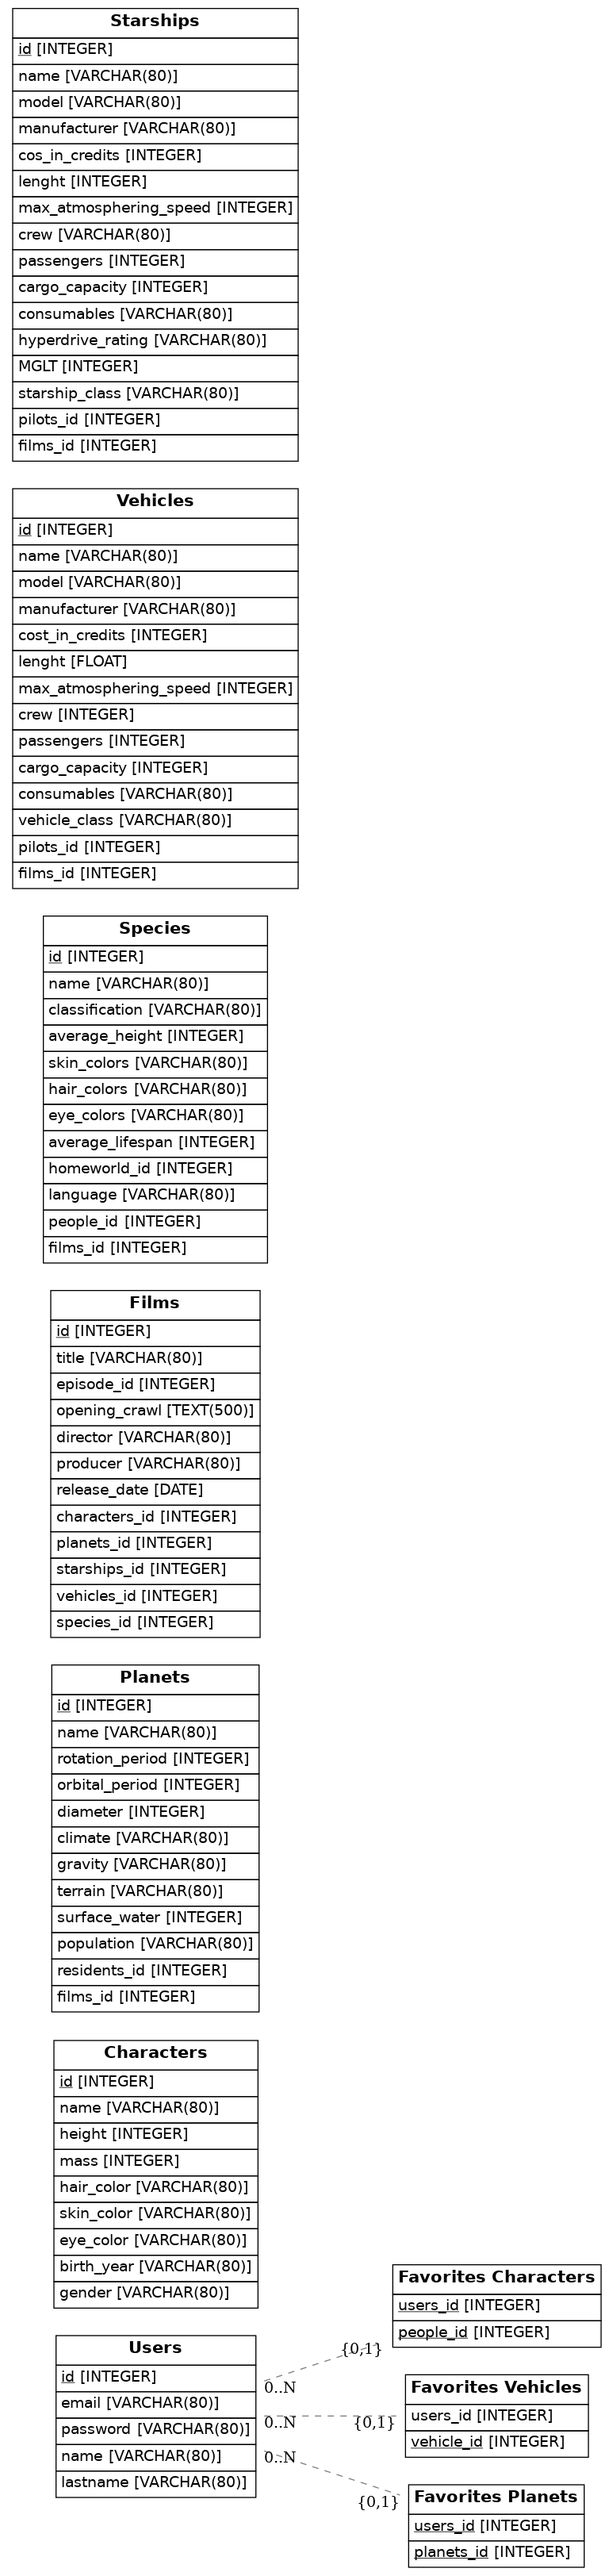
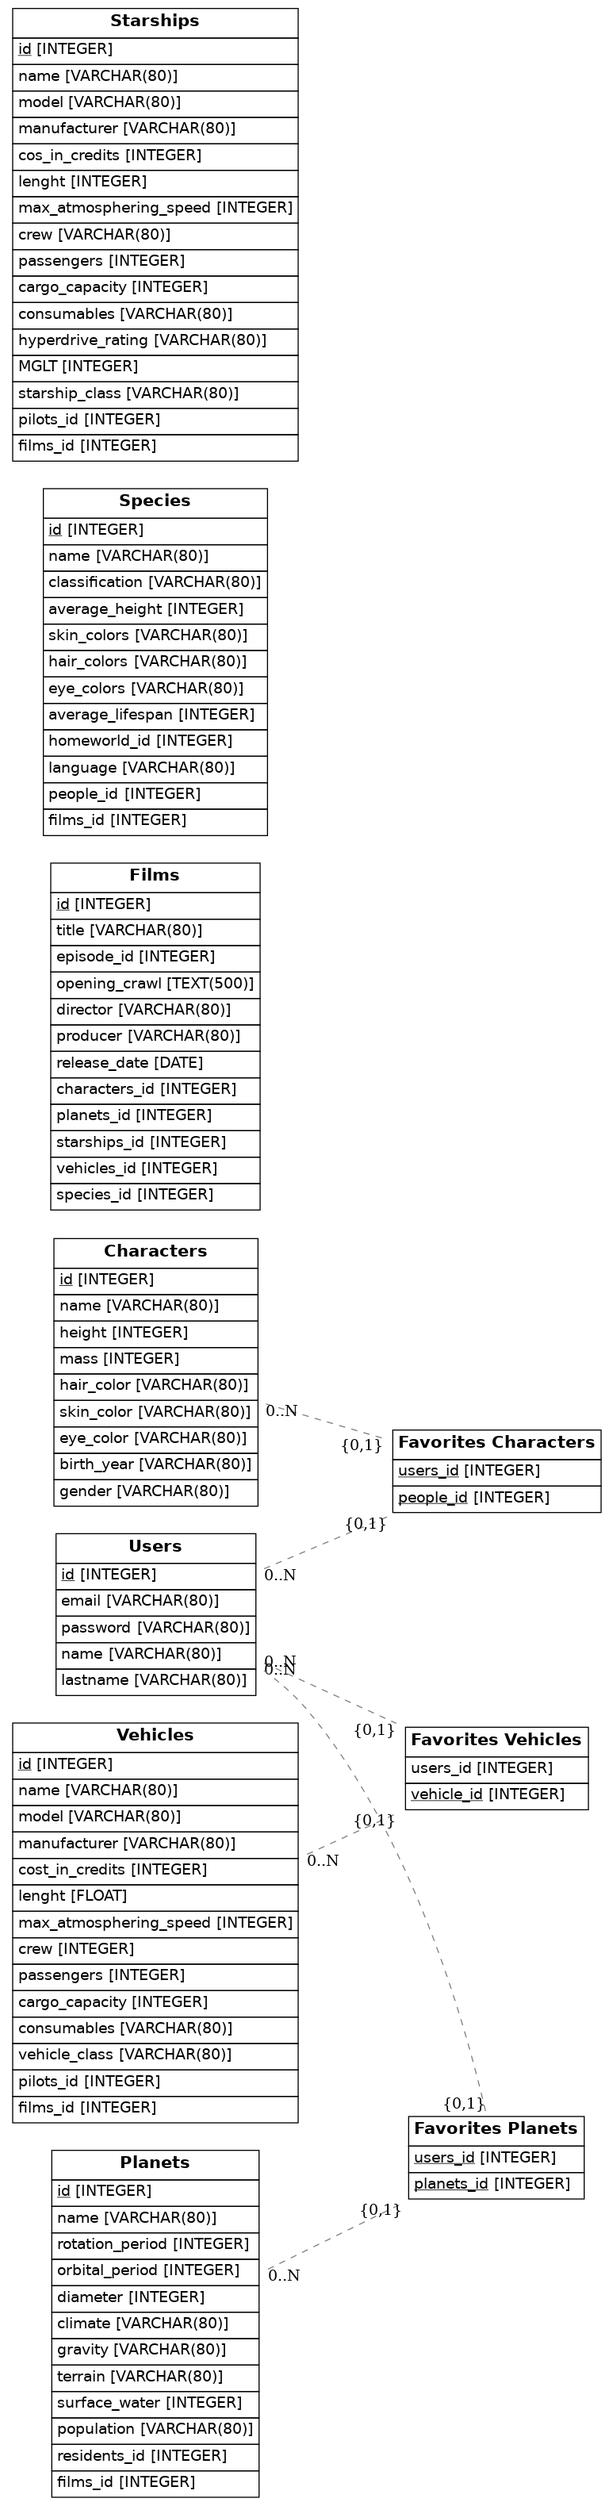
avance diagrama starwars

diff --git a/src/models.py b/src/models.py
@@ -112,17 +112,17 @@ class Starship(Base):
 class Favorite_Character(Base):
     __tablename__= 'Favorites Characters'
     users_id = Column(Integer, ForeignKey("Users.id"), primary_key=True)
-    people_id = Column(Integer, ForeignKey("Character.id"), primary_key=True)
+    people_id = Column(Integer, ForeignKey("Characters.id"), primary_key=True)
 
 class Favorite_Vehicle(Base):
     __tablename__= 'Favorites Vehicles'
     users_id = Column(Integer, ForeignKey("Users.id"))
-    vehicle_id = Column(Integer, ForeignKey("vehicle.id"), primary_key=True)
+    vehicle_id = Column(Integer, ForeignKey("Vehicles.id"), primary_key=True)
 
 class Favorite_Planet(Base):
     __tablename__= 'Favorites Planets'
     users_id = Column(Integer, ForeignKey("Users.id"), primary_key=True)
-    planets_id = Column(Integer, ForeignKey("planets.id"), primary_key=True)
+    planets_id = Column(Integer, ForeignKey("Planets.id"), primary_key=True)
 
 ## Draw from SQLAlchemy base
 render_er(Base, 'diagram.png')
